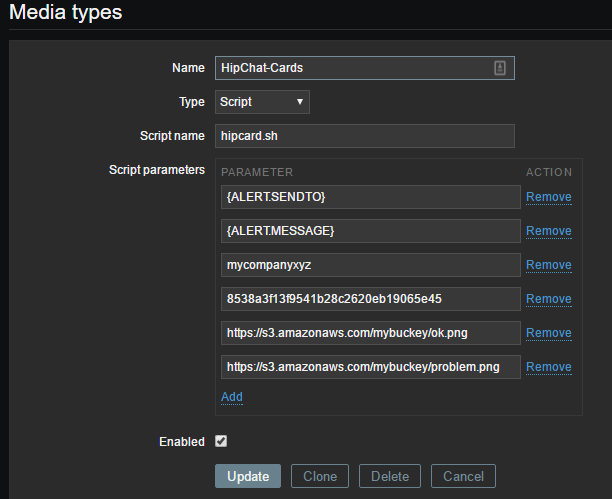
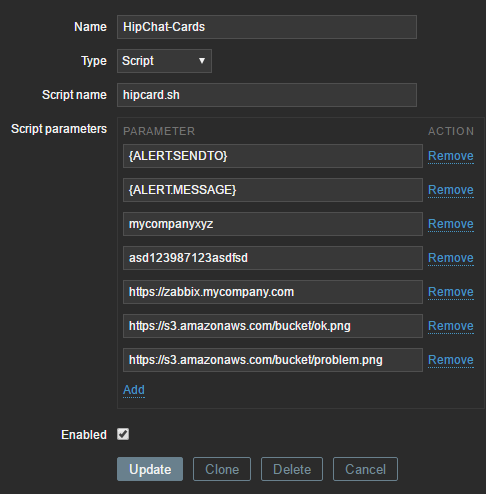
Fixed issue with arguments added URL param and unittests
Fixed issue with arguments and handling no URLs for images.
Replaced hard coded URL links with param.
Added basic unittests

diff --git a/tests/test_hipcard.py b/tests/test_hipcard.py
@@ -1,0 +1,108 @@
+#!/usr/bin/env python
+import sys
+sys.path.append('../')
+import unittest
+import hipcard
+import requests
+import requests_mock
+import argparse
+
+@requests_mock.Mocker()
+class C_HIPCARD(unittest.TestCase):
+
+    def setUp(self):
+        self.sendto = "testroom"
+        self.msg = ('name: "Test Trigger Name" \n'
+                    'id: "1234567" \n'
+                    'status: "OK" \n'
+                    'hostname: "xyz.com" \n'
+                    'event_id: "987654321" \n'
+                    'severity: "Disaster" \n'
+                    'url: "url.xyz.com" \n'
+                    'description: "Test Trigger Description"')
+        self.hipurl = "testhipurl"
+        self.hiptoken = "abcedfg12345678"
+        self.zbxurl = "https://zbx.test.com"
+        self.okimg = "http://xyz.com/ok.png"
+        self.probimg = "http://xyz.com/prob.png"
+
+
+    def test_sendmsg(self, m):
+        testtext = (u'{"color": "green", "message": "OK:Test Trigger Name \\n '
+                   '<a href=\'https://zbx.test.com/tr_comments.php?triggerid='
+                   '1234567\'>More Information</a> | <a href=\'https://zbx.test'
+                   '.com/events.php?filter_set=1&triggerid=1234567&period='
+                   '604800\'>Events</a> | <a href=\'https://zbx.test.com/'
+                   'zabbix.php?action=acknowledge.edit&acknowledge_type=1&'
+                   'eventids[]=987654321&backurl=tr_status.php\'>Acknowledge'
+                   '</a> | <a href=\'url.xyz.com\'>Trigger Link</a></b>",'
+                   ' "notify": "true", "card": {"style": "application",'
+                   ' "activity": {"html": "<b><span class=\'aui-lozenge '
+                   'aui-lozenge-success\'>OK</span> Test Trigger Name</b>"}, '
+                   '"icon": {"url": "http://xyz.com/ok.png"}, "format": '
+                   '"medium", "url": "https://zbx.test.com/events.php?'
+                   'filter_set=1&triggerid=1234567&period=604800", '
+                   '"attributes": [{"value": {"style": "lozenge-success", '
+                   '"label": "OK"}, "label": "Status"}, {"value": {"style": '
+                   '"lozenge-error", "label": "Disaster"}, "label": "Severity"}'
+                   ', {"value": {"style": "lozenge", "label": "xyz.com"}, '
+                   '"label": "Hostname"}], "title": "Test Trigger Name", '
+                   '"id": "987654321", "description": {"value": "<b>'
+                   '<a href=\'https://zbx.test.com/tr_comments.php?triggerid='
+                   '1234567\'>More Information</a> | <a href=\'https://zbx.test'
+                   '.com/events.php?filter_set=1&triggerid=1234567&period='
+                   '604800\'>Events</a> | <a href=\'https://zbx.test.com/'
+                   'zabbix.php?action=acknowledge.edit&acknowledge_type=1&'
+                   'eventids[]=987654321&backurl=tr_status.php\'>Acknowledge'
+                   '</a> | <a href=\'url.xyz.com\'>Trigger Link</a></b>",'
+                   ' "format": "html"}}, "message_format": "html"}')
+        testurl = (u'https://testhipurl.hipchat.com/v2/room/testroom/'
+                   'notification?auth_token=abcedfg12345678')
+        m.register_uri(requests_mock.ANY, 'https://testhipurl.hipchat.com/v2/room/testroom/notification?auth_token=abcedfg12345678', text='resp')
+        test = hipcard.ZabbixAlert(self.sendto, self.msg, self.hipurl,
+                                   self.hiptoken, self.zbxurl)
+        test.images(okimg=self.okimg, probimg=self.probimg)
+        resp = test.sendmsg()
+        self.assertEqual(resp.request.text, testtext)
+        self.assertEqual(resp.url, testurl)
+
+    def test_main(self, m):
+        testtext = (u'{"color": "green", "message": "OK:Test Trigger Name \\n '
+                   '<a href=\'https://zbx.test.com/tr_comments.php?triggerid='
+                   '1234567\'>More Information</a> | <a href=\'https://zbx.test'
+                   '.com/events.php?filter_set=1&triggerid=1234567&period='
+                   '604800\'>Events</a> | <a href=\'https://zbx.test.com/'
+                   'zabbix.php?action=acknowledge.edit&acknowledge_type=1&'
+                   'eventids[]=987654321&backurl=tr_status.php\'>Acknowledge'
+                   '</a> | <a href=\'url.xyz.com\'>Trigger Link</a></b>",'
+                   ' "notify": "true", "card": {"style": "application",'
+                   ' "activity": {"html": "<b><span class=\'aui-lozenge '
+                   'aui-lozenge-success\'>OK</span> Test Trigger Name</b>"}, '
+                   '"icon": {"url": "http://xyz.com/ok.png"}, "format": '
+                   '"medium", "url": "https://zbx.test.com/events.php?'
+                   'filter_set=1&triggerid=1234567&period=604800", '
+                   '"attributes": [{"value": {"style": "lozenge-success", '
+                   '"label": "OK"}, "label": "Status"}, {"value": {"style": '
+                   '"lozenge-error", "label": "Disaster"}, "label": "Severity"}'
+                   ', {"value": {"style": "lozenge", "label": "xyz.com"}, '
+                   '"label": "Hostname"}], "title": "Test Trigger Name", '
+                   '"id": "987654321", "description": {"value": "<b>'
+                   '<a href=\'https://zbx.test.com/tr_comments.php?triggerid='
+                   '1234567\'>More Information</a> | <a href=\'https://zbx.test'
+                   '.com/events.php?filter_set=1&triggerid=1234567&period='
+                   '604800\'>Events</a> | <a href=\'https://zbx.test.com/'
+                   'zabbix.php?action=acknowledge.edit&acknowledge_type=1&'
+                   'eventids[]=987654321&backurl=tr_status.php\'>Acknowledge'
+                   '</a> | <a href=\'url.xyz.com\'>Trigger Link</a></b>",'
+                   ' "format": "html"}}, "message_format": "html"}')
+        testurl = (u'https://testhipurl.hipchat.com/v2/room/testroom/'
+                   'notification?auth_token=abcedfg12345678')
+        m.register_uri(requests_mock.ANY, 'https://testhipurl.hipchat.com/v2/room/testroom/notification?auth_token=abcedfg12345678', text='resp')
+        sys.argv = ["x", self.sendto, self.msg, self.hipurl, self.hiptoken, self.zbxurl, self.okimg, self.probimg]
+        test = hipcard.main()
+        self.assertEqual(test.request.text, testtext)
+        self.assertEqual(test.url, testurl)
+
+if __name__ == "__main__":
+    unittest.main()
+

diff --git a/hipcard.py b/hipcard.py
@@ -29,7 +29,7 @@ class ZabbixAlert(object):
 
     HEADERS = {'Content-Type': 'application/json'}
 
-    def __init__(self, roomid, message, hipname, token):
+    def __init__(self, roomid, message, hipname, token, zbxurl):
         """
         The __init__ method requires 4 arguments.
 
@@ -53,14 +53,17 @@ class ZabbixAlert(object):
 
             hipname (str): The company name for your hipchat account.
 
-            token (str): The HipChat v2 API token
+            token (str): The HipChat v2 API token.
+
+            zbxurl (str): The FQDN of your Zabbix installation.
         """
         self.roomid = roomid
         self.message = message
         self.hipname = hipname
         self.token = token
-        self.okimg = ""
-        self.probimg = ""
+        self.zbxurl = zbxurl
+        self.okimg = "http://"
+        self.probimg = "http://"
 
     def _parse(self):
         pattern = (r'name: *"(.*)"\s*id: *"(.*)"\s*status: *"(.*)"\s*hostname:'
@@ -136,16 +139,16 @@ class ZabbixAlert(object):
         return (sevlozenge, msgcolor)
 
     def _formatmessage(self):
-        message = ("{0}:{1} \n <a href='https://zabbix.accusoft.com"
+        message = ("{0}:{1} \n <a href='{5}"
                    "/tr_comments.php?triggerid={2}'>More Information</a> | "
-                   "<a href='https://zabbix.accusoft.com/events.php?"
+                   "<a href='{5}/events.php?"
                    "filter_set=1&triggerid={2}&period=604800'>Events</a> | "
-                   "<a href='https://zabbix.accusoft.com/zabbix.php?"
+                   "<a href='{5}/zabbix.php?"
                    "action=acknowledge.edit&acknowledge_type=1&"
                    "eventids[]={3}&backurl=tr_status.php'>Acknowledge</a> | "
                    "<a href='{4}'>Trigger Link</a></b>") \
                     .format(self._status(), self._name(), self._triggerid(),
-                            self._eventid(), self._url())
+                            self._eventid(), self._url(), self.zbxurl)
         return message
 
     def _card(self):
@@ -154,8 +157,9 @@ class ZabbixAlert(object):
         card = {
             "style": "application",
             "format": "medium",
-            "url": ("https://zabbix.accusoft.com/events.php?filter_set=1&"
-                    "triggerid={0}&period=604800").format(self._triggerid()),
+            "url": ("{1}/events.php?filter_set=1&"
+                    "triggerid={0}&period=604800").format(self._triggerid(),
+                                                          self.zbxurl),
             "id": self._eventid(),
             "title": self._name(),
             "activity": {
@@ -163,15 +167,16 @@ class ZabbixAlert(object):
                          "</b>").format(statloz, self._status(), self._name())},
             "description": {
                 "format": "html",
-                "value": ("<b><a href='https://zabbix.accusoft.com/"
+                "value": ("<b><a href='{3}/"
                           "tr_comments.php?triggerid={0}'>More Information</a>"
-                          " | <a href='https://zabbix.accusoft.com/events.php?"
+                          " | <a href='{3}/events.php?"
                           "filter_set=1&triggerid={0}&period=604800'>Events</a>"
-                          " | <a href='https://zabbix.accusoft.com/zabbix.php?"
+                          " | <a href='{3}/zabbix.php?"
                           "action=acknowledge.edit&acknowledge_type=1&"
                           "eventids[]={1}&backurl=tr_status.php'>Acknowledge"
                           "</a> | <a href='{2}'>Trigger Link</a></b>").format(
-                              self._triggerid(), self._eventid(), self._url())},
+                              self._triggerid(), self._eventid(), self._url(),
+                              self.zbxurl)},
             "icon": {"url": statimg},
             "attributes": [{
                 "value": {
@@ -201,20 +206,22 @@ class ZabbixAlert(object):
            Call it after calling the Class with needed parameters
            to send the message"""
         _, color = self._sevassets()
-        paylod = {'notify': 'true', 'color': color, 'message':
+        payload = {'notify': 'true', 'color': color, 'message':
                   self._formatmessage(), 'card': self._card(), 'message_format':
                   'html'}
         params = {'auth_token': self.token}
         resp = requests.post('https://{0}.hipchat.com/v2/room/{1}/notification'.
                              format(self.hipname, self.roomid), data=json.dumps
-                             (paylod), headers=self.HEADERS, params=params)
-        print(resp)
+                             (payload), headers=self.HEADERS, params=params)
+        return resp
 
 def main():
-    ZBXALERT = ZabbixAlert(sys.argv[1], sys.argv[2], sys.argv[3], sys.argv[4])
-    if len(sys.argv) == 6:
-        ZBXALERT.images(okimg=sys.argv[5], probimg=sys.argv[6])
-    ZBXALERT.sendmsg()
+    ZBXALERT = ZabbixAlert(sys.argv[1], sys.argv[2], sys.argv[3], sys.argv[4],
+                           sys.argv[5])
+    if len(sys.argv) == 8:
+        ZBXALERT.images(okimg=sys.argv[6], probimg=sys.argv[7])
+    resp = ZBXALERT.sendmsg()
+    return resp
 
 
 if __name__ == '__main__':

diff --git a/README.md b/README.md
@@ -1,10 +1,12 @@
 # zbx-hipchat
-This alert script creates cards in hipchat that are expandable to reveal useful links to the alert.  
+This alert script creates cards in hipchat that are expandable to reveal useful links to the alert.
 This uses the new HipChat v2 API. [HipChat API Info](https://developer.atlassian.com/hipchat/guide/hipchat-rest-api/api-access-tokens#APIaccesstokens-Usergeneratedtokens)
 
 ####Add a new media type to Zabbix
 
 ![Alt text](/imgs/zbx-media type.png?raw=true "Media Type")
+
+Point the script to the bash file if your having trouble getting the python script to run directly.
 
 Define the parameters like so.
 
@@ -12,8 +14,9 @@ Define the parameters like so.
 2. {ALERT.MESSAGE}
 3. You subdomain name for the HipChat URL
 4. HipChat v2 API Key
-5. Image to use for recovery/OK Messages(Optional)
-6. Image to use for Problem Messages(Optional)
+5. FQDN of your Zabbix installation including http(s)://
+6. Image to use for recovery/OK Messages(Optional)
+7. Image to use for Problem Messages(Optional)
 
 **_The images are optional but you must provide both if you are using them._**
 
@@ -29,17 +32,17 @@ Set the Send to field to the HipChat Room ID you want to use for this user conta
 
 ![Alt text](/imgs/zbx-action.png?raw=true "Action Messsage")
 
-The Subject doesn't matter its not used to alert HipChat.  
+The Subject doesn't matter its not used to alert HipChat.
 Format the Default and Recovery Messages like so.
 
->name: "{TRIGGER.NAME}"  
->id: "{TRIGGER.ID}"  
->status: "{TRIGGER.STATUS}"  
->hostname: "{HOSTNAME}"  
->event_id: "{EVENT.ID}"  
->severity: "{TRIGGER.SEVERITY}"  
->url: "{TRIGGER.URL}"  
->description: "{TRIGGER.DESCRIPTION}"  
+>name: "{TRIGGER.NAME}"
+>id: "{TRIGGER.ID}"
+>status: "{TRIGGER.STATUS}"
+>hostname: "{HOSTNAME}"
+>event_id: "{EVENT.ID}"
+>severity: "{TRIGGER.SEVERITY}"
+>url: "{TRIGGER.URL}"
+>description: "{TRIGGER.DESCRIPTION}"
 
 
 The alerts look like the following in HipChat.
